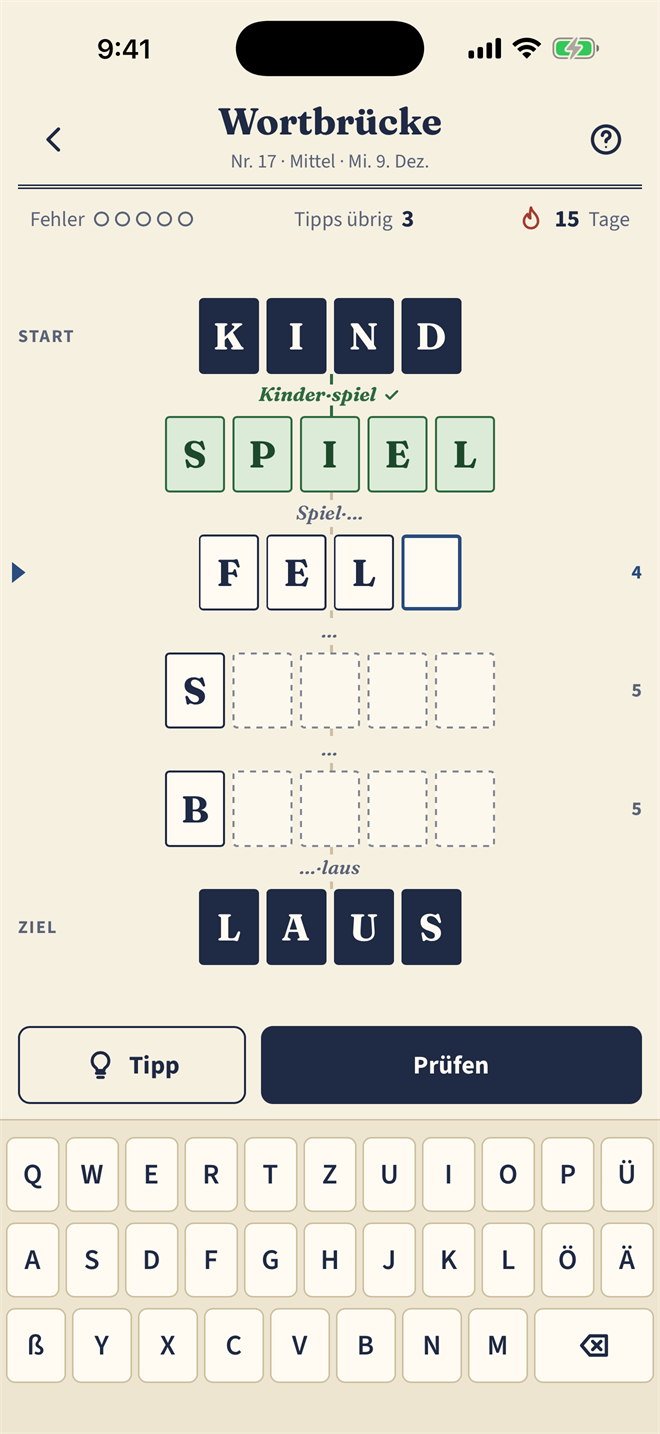
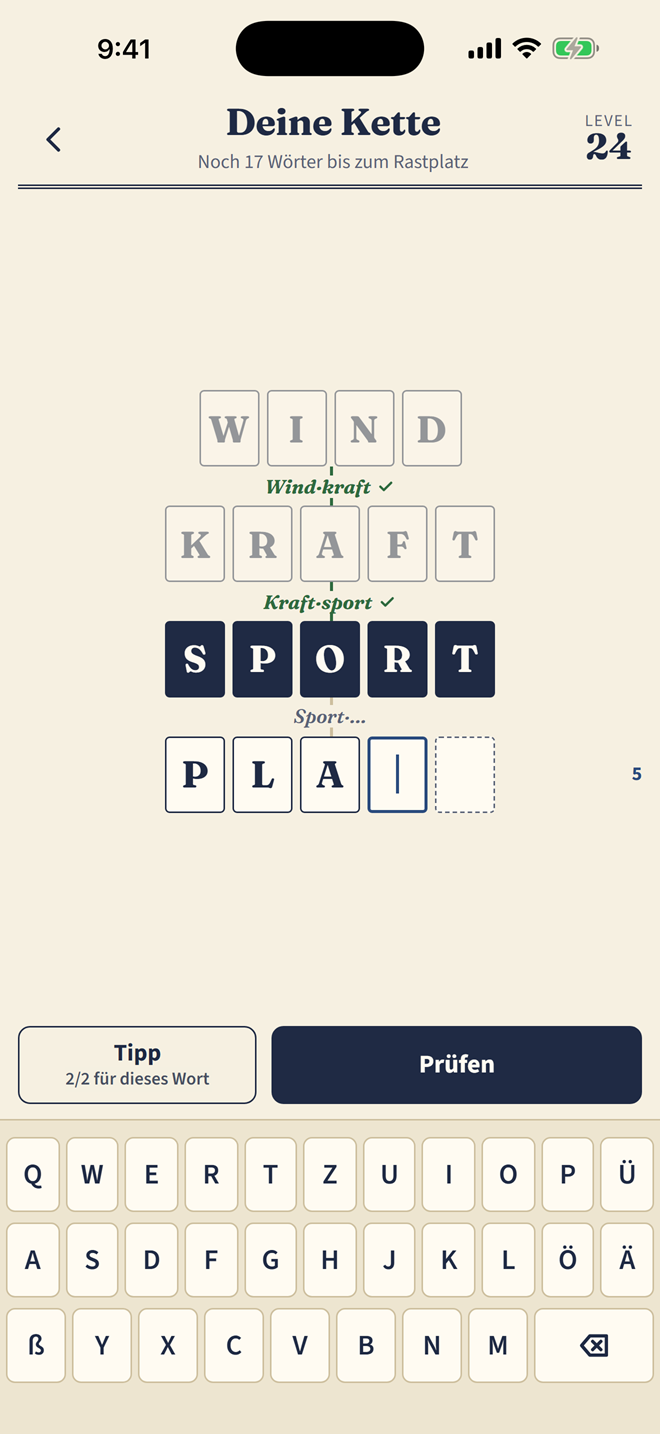
Proberaetsel ohne Tipp-Knopf (wie Tagesraetsel), Untertitel angepasst; Galerie-Bilder 02 (Kette mit Tipp-Grenze) und 03 (Ergebnis ohne Tipp) auf Build 131, Alt-Text/Bildunterschrift 02 neu

diff --git a/index.html b/index.html
@@ -130,7 +130,7 @@
   <div class="probe" id="probe" aria-labelledby="probe-titel">
     <div class="probe-kopf">
       <h3 id="probe-titel">Probier es aus</h3>
-      <p class="probe-sub">Ein kleines Proberätsel: Hier passt jedes Wort zu beiden Nachbarn</p>
+      <p class="probe-sub">Ein kleines Proberätsel, wie das Tagesrätsel ohne Tipps: Hier passt jedes Wort zu beiden Nachbarn</p>
     </div>
 
     <form class="kette" id="kette" novalidate autocomplete="off">
@@ -162,9 +162,6 @@
         <span class="kacheln" aria-label="Zielwort: GARTEN"><span class="k">G</span><span class="k">A</span><span class="k">R</span><span class="k">T</span><span class="k">E</span><span class="k">N</span></span></div>
 
       <div class="probe-knoepfe">
-        <button type="button" class="knopf neben" id="probe-tipp">
-          <svg viewBox="0 0 24 24" aria-hidden="true" focusable="false"><path d="M9 18h6M10 21h4M12 3a6 6 0 0 0-3.5 10.9c.6.5 1 1.2 1 2V16h5v-.1c0-.8.4-1.5 1-2A6 6 0 0 0 12 3z" fill="none" stroke="currentColor" stroke-width="2" stroke-linecap="round" stroke-linejoin="round"/></svg>
-          Tipp</button>
         <button type="submit" class="knopf haupt">Prüfen</button>
       </div>
       <p class="meldung" id="probe-meldung" role="status" aria-live="polite"></p>
@@ -246,9 +243,9 @@
       <figcaption>Deine Kette und das Tagesrätsel</figcaption>
     </figure>
     <figure class="telefon klein" data-bild>
-      <img src="/screenshots/02-spiel.png" width="660" height="1434" loading="lazy" alt="Tagesrätsel im Spiel: KIND, SPIEL, eine Lücke mit FEL, zwei weitere Lücken und das Ziel LAUS; unten Tipp, Prüfen und die Spieltastatur mit Umlauten.">
+      <img src="/screenshots/02-spiel.png" width="660" height="1434" loading="lazy" alt="Deine Kette auf Level 24: WIND, KRAFT, SPORT und die Lücke PLA mit fünf Buchstaben; unten Tipp, Prüfen und die Spieltastatur mit Umlauten.">
       <span class="bild-ersatz" aria-hidden="true">Bild folgt</span>
-      <figcaption>Wort für Wort zum Ziel</figcaption>
+      <figcaption>Level für Level weiter</figcaption>
     </figure>
     <figure class="telefon klein" data-bild>
       <img src="/screenshots/03-ergebnis.png" width="660" height="1434" loading="lazy" alt="Ergebnis des Tagesrätsels mit dem Stempel „Gelöst“, der Übersicht der gefundenen Wörter, einer Teilen-Karte ohne Lösung und dem Knopf Weiterspielen.">

diff --git a/script.js b/script.js
@@ -1,7 +1,7 @@
 /* Wortbrücke – kleine Helfer für die Webseite. Kein Tracking, keine Netzwerkanfragen, keine Speicherung.
    1) Ersatzbild, falls ein Screenshot fehlt
    2) App-Store-Knopf zeigt „Bald im App Store“, solange der Platzhalter [APPSTORE_URL] drinsteht
-   3) Mini-Rätsel „Probier es aus“ */
+   3) Mini-Rätsel „Probier es aus“ (ohne Tipps, wie das Tagesrätsel) */
 (function () {
   'use strict';
 
@@ -28,9 +28,7 @@
   var form = document.getElementById('kette');
   if (!form) return;
   var meldung = document.getElementById('probe-meldung');
-  var tippKnopf = document.getElementById('probe-tipp');
   var reihen = Array.prototype.slice.call(form.querySelectorAll('.reihe.offen'));
-  var tippsUebrig = 3;
   var fehler = 0;
 
   function felder(reihe) { return Array.prototype.slice.call(reihe.querySelectorAll('input.k')); }
@@ -42,10 +40,6 @@
   function sag(text, art) {
     meldung.textContent = text;
     meldung.className = 'meldung' + (art ? ' ' + art : '');
-  }
-  function tippText() {
-    tippKnopf.lastChild.textContent = tippsUebrig > 0 ? ' Tipp (' + tippsUebrig + ')' : ' Keine Tipps';
-    tippKnopf.disabled = tippsUebrig === 0 || alleFelder().length === 0;
   }
 
   reihen.forEach(function (reihe) {
@@ -105,27 +99,6 @@
     } else if (unvollstaendig) {
       sag('Füll erst alle Kästchen einer Lücke aus.', '');
     }
-    tippText();
-  });
-
-  tippKnopf.addEventListener('click', function () {
-    if (tippsUebrig === 0) return;
-    var r = reihen.filter(function (x) { return !x.classList.contains('geloest'); })[0];
-    if (!r) return;
-    var loesung = r.dataset.loesung.slice(1).split('');
-    var f = felder(r);
-    for (var i = 0; i < f.length; i++) {
-      if (f[i].readOnly) continue;
-      if (f[i].value !== loesung[i]) {
-        f[i].value = loesung[i]; f[i].readOnly = true; f[i].classList.add('tipp', 'voll');
-        tippsUebrig--;
-        sag('Ein Buchstabe ist aufgedeckt.', '');
-        var weiter = f.filter(function (x) { return !x.readOnly; })[0];
-        if (weiter) weiter.focus();
-        break;
-      }
-    }
-    tippText();
   });
 
   function markiereVerbindungen() {
@@ -143,5 +116,4 @@
   }
 
   form.classList.add('aktiv');
-  tippText();
 })();
